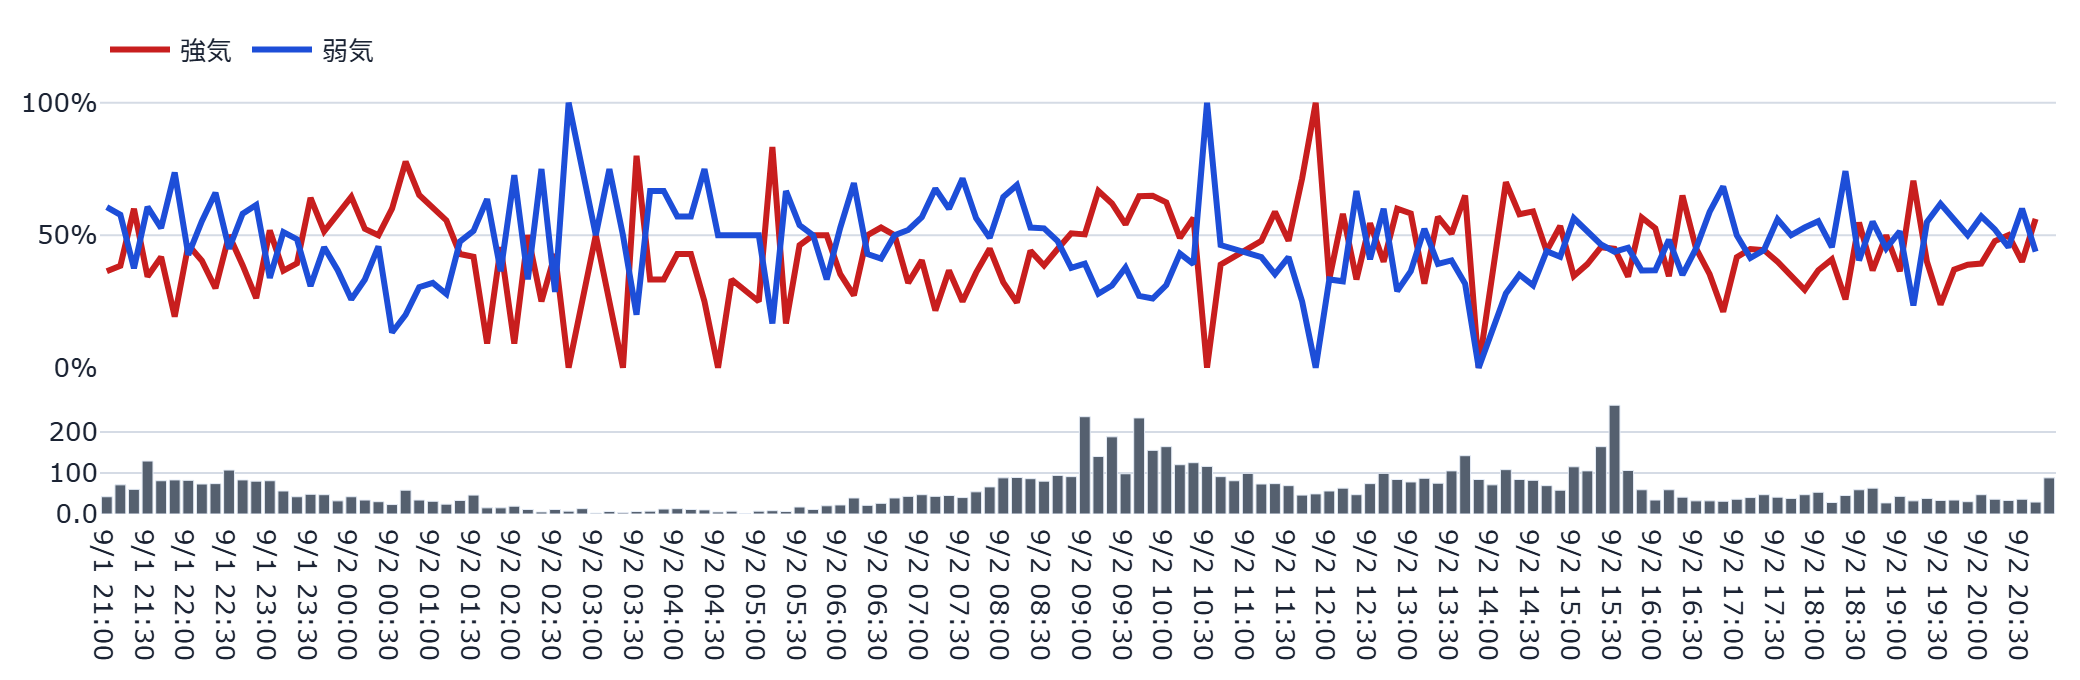
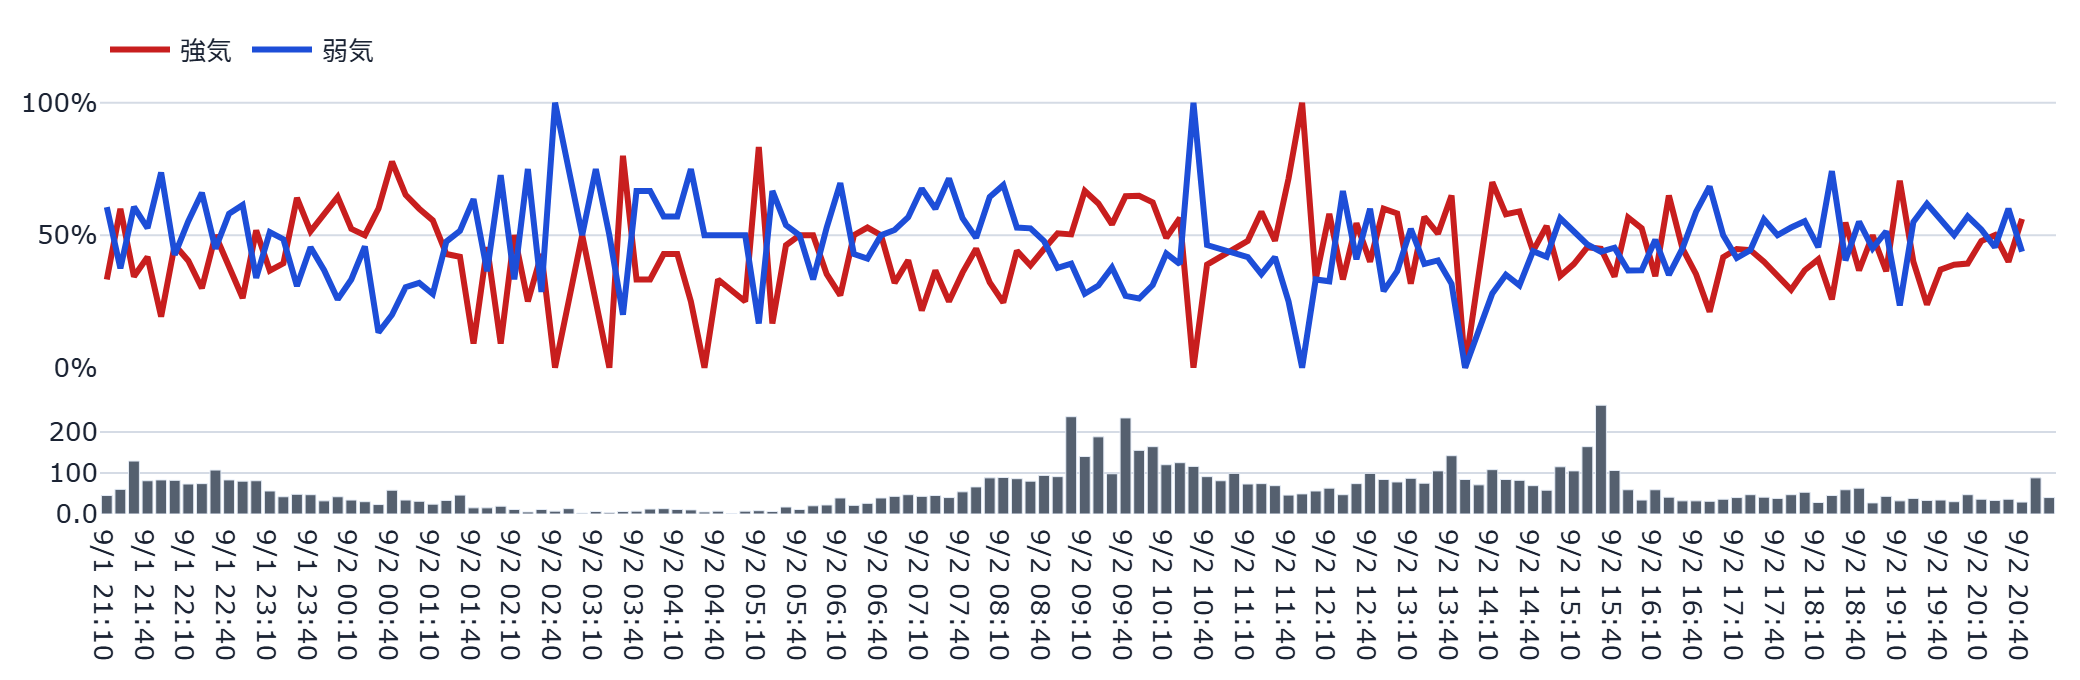
auto: refresh static dashboard (2026-09-02 21:20:00 JST)

diff --git a/docs/index.html b/docs/index.html
@@ -116,7 +116,7 @@
         <span class="price">51,000円</span>
         <span class="chg" style="color:#8B94A3">+0.00%</span>
       </div>
-      <p class="caption">更新時刻: 2026-09-02T21:05:14（データは1分間隔で自動生成され、このページも
+      <p class="caption">更新時刻: 2026-09-02T21:17:43（データは1分間隔で自動生成され、このページも
       60秒毎に自動再読み込みされます）</p>
       
       <p id='visit-count-badge' class='caption'>👀 累計閲覧数: 2,165</p>
@@ -136,7 +136,7 @@
           <h3>ボラ・レジーム帯</h3>
           <figure><img src='images/regime_band.png' alt='ボラ・レジーム帯' loading='lazy'></figure>
           <p class='caption'>現在レジーム: 較正中　(BVP=0.436)</p>
-          <div class='metric-row'><div class='metric-card'><div class='metric-label'>PTS（09/02 21:07）</div><div class='metric-value'>50,999円</div><div class='metric-delta' style='color:#8B94A3'>-0.00%</div></div></div><p class='caption'>PTS=東証取引時間外の私設取引システム／ADR=米国預託証券。翌営業日の値動きの参考情報です(それ自体が売買シグナルではありません)。</p>
+          <div class='metric-row'><div class='metric-card'><div class='metric-label'>PTS（09/02 21:15）</div><div class='metric-value'>51,000円</div><div class='metric-delta' style='color:#8B94A3'>+0.00%</div></div></div><p class='caption'>PTS=東証取引時間外の私設取引システム／ADR=米国預託証券。翌営業日の値動きの参考情報です(それ自体が売買シグナルではありません)。</p>
         </div>
       </div>
 
@@ -162,7 +162,7 @@
       <div class='info-box'>📌 前回の取引日(2026-09-01)からの状態変化: 「暴落煽り語彙」警戒→OK、「話題枯れ」OK→警戒</div>
       <div class="panel"><div class='signal-row'><div class='signal-name'>灼熱メーター(過熱)<div class='signal-desc'>掲示板全体の強気/弱気の偏りと投稿の勢いから算出した「過熱度」の合成指標。</div></div><div class='signal-meta'><div class='signal-note'>過熱スコア16.3 (閾値36)</div><div><span style='display:inline-block;border-radius:999px;padding:2px 10px;font-size:.82em;font-weight:600;color:#fff;background:#15803D;white-space:nowrap'>OK (現在値16.30 / 閾値&gt;36)</span></div><div class='signal-spark'><figure><img src='images/spark_signal_0.png' alt='灼熱メーター(過熱)の推移' loading='lazy'></figure></div></div></div>
 <div class='signal-row'><div class='signal-name'>そう思う大量票<div class='signal-desc'>Yahoo!掲示板の「そう思う」共感ボタンが1投稿に集中して大量に押されているか。</div></div><div class='signal-meta'><div class='signal-note'>そう思う最大62票 (95超=過熱)</div><div><span style='display:inline-block;border-radius:999px;padding:2px 10px;font-size:.82em;font-weight:600;color:#fff;background:#15803D;white-space:nowrap'>OK (現在値62 / 閾値&gt;=95)</span></div><div class='signal-spark'><figure><img src='images/spark_signal_1.png' alt='そう思う大量票の推移' loading='lazy'></figure></div></div></div>
-<div class='signal-row'><div class='signal-name'>イナゴ語彙(euphoria)<div class='signal-desc'>「爆上げ」「握力」等、熱狂・便乗を示す語彙が投稿にどれだけ含まれるか。</div></div><div class='signal-meta'><div class='signal-note'>euphoria指数2.0/100投稿</div><div><span style='display:inline-block;border-radius:999px;padding:2px 10px;font-size:.82em;font-weight:600;color:#fff;background:#15803D;white-space:nowrap'>OK (現在値2.00 / 閾値&gt;=5.5/100投稿)</span></div><div class='signal-spark'><figure><img src='images/spark_signal_2.png' alt='イナゴ語彙(euphoria)の推移' loading='lazy'></figure></div></div></div>
+<div class='signal-row'><div class='signal-name'>イナゴ語彙(euphoria)<div class='signal-desc'>「爆上げ」「握力」等、熱狂・便乗を示す語彙が投稿にどれだけ含まれるか。</div></div><div class='signal-meta'><div class='signal-note'>euphoria指数2.1/100投稿</div><div><span style='display:inline-block;border-radius:999px;padding:2px 10px;font-size:.82em;font-weight:600;color:#fff;background:#15803D;white-space:nowrap'>OK (現在値2.10 / 閾値&gt;=5.5/100投稿)</span></div><div class='signal-spark'><figure><img src='images/spark_signal_2.png' alt='イナゴ語彙(euphoria)の推移' loading='lazy'></figure></div></div></div>
 <div class='signal-row'><div class='signal-name'>ネームド集中<div class='signal-desc'>特定の常連投稿者(ハッシュ化ID)に投稿が偏っていないか(少数の声が目立ちすぎていないか)。</div></div><div class='signal-meta'><div class='signal-note'>上位5人シェア4%</div><div><span style='display:inline-block;border-radius:999px;padding:2px 10px;font-size:.82em;font-weight:600;color:#fff;background:#15803D;white-space:nowrap'>OK (現在値0.04 / 閾値&gt;=0.1)</span></div><div class='signal-spark'><figure><img src='images/spark_signal_3.png' alt='ネームド集中の推移' loading='lazy'></figure></div></div></div>
 <div class='signal-row'><div class='signal-name'>他銘柄混入率<div class='signal-desc'>本銘柄の掲示板で他の銘柄コードへの言及がどれだけ多いか(関心が他へ移りつつあるサイン)。</div></div><div class='signal-meta'><div class='signal-note'>他銘柄言及5% (関心離散のサイン)</div><div><span style='display:inline-block;border-radius:999px;padding:2px 10px;font-size:.82em;font-weight:600;color:#fff;background:#15803D;white-space:nowrap'>OK (現在値0.05 / 閾値&gt;=0.11)</span></div><div class='signal-spark'><figure><img src='images/spark_signal_4.png' alt='他銘柄混入率の推移' loading='lazy'></figure></div></div></div>
 <div class='signal-row'><div class='signal-name'>暴落煽り語彙<div class='signal-desc'>「暴落」「終わった」等、悲観・煽りを示す語彙が投稿にどれだけ含まれるか。</div></div><div class='signal-meta'><div class='signal-note'>煽り指数3.6/100投稿</div><div><span style='display:inline-block;border-radius:999px;padding:2px 10px;font-size:.82em;font-weight:600;color:#fff;background:#15803D;white-space:nowrap'>OK (現在値3.60 / 閾値&gt;=5.0/100投稿)</span></div><div class='signal-spark'><figure><img src='images/spark_signal_5.png' alt='暴落煽り語彙の推移' loading='lazy'></figure></div></div></div>
@@ -197,22 +197,22 @@
       
 
       <h2>🤖 AI考察</h2>
-      <div class='metric-row'><div class='metric-card'><div class='metric-label'>株価</div><div class='metric-value'>51,000円</div><div class='metric-delta'>+0円</div></div><div class='metric-card'><div class='metric-label'>強気比率</div><div class='metric-value'>49.6%</div><div class='metric-delta'>+0.0pt</div></div><div class='metric-card'><div class='metric-label'>弱気比率</div><div class='metric-value'>42.5%</div><div class='metric-delta'>+0.0pt</div></div></div><p class='caption'>前回集計(2026-09-02T20:58:16)との比較</p>
-      <div class='ai-box'>本日の取引終了時点におけるキオクシアホールディングス（285A）の掲示板センチメントを分析します。<br>
+      <div class='metric-row'><div class='metric-card'><div class='metric-label'>株価</div><div class='metric-value'>51,000円</div><div class='metric-delta'>+0円</div></div><div class='metric-card'><div class='metric-label'>強気比率</div><div class='metric-value'>49.6%</div><div class='metric-delta'>+0.0pt</div></div><div class='metric-card'><div class='metric-label'>弱気比率</div><div class='metric-value'>42.5%</div><div class='metric-delta'>+0.0pt</div></div></div><p class='caption'>前回集計(2026-09-02T21:05:14)との比較</p>
+      <div class='ai-box'>本日の取引終了時点におけるキオクシアホールディングス（285A）の掲示板センチメントを集計・分析した結果を報告します。<br>
 <br>
-本日の終値は51,000円となり、前日比で横ばいの動きとなりました。特筆すべき点は、価格が停滞している一方で、強気比率が49.6%まで上昇し、弱気比率（42.5%）を上回っている点です。直近の日次推移を見ると、8月下旬には弱気派が優勢な局面もありましたが、ここ数日の推移では強気・弱気の比率が拮抗する展開が続いています。本日のセンチメントは、価格の動きに対する「様子見」から、やや前向きな期待感へと微細にシフトしている可能性が示唆されます。<br>
+まず、本日の終値は51,000円となり、前日比で横ばいの推移となりました。この価格の停滞に対し、掲示板上では強気比率が49.6％、弱気比率が42.5％と拮抗しており、投資家の意見が二分されている状況が見て取れます。特筆すべきは、直近の日次推移との比較です。8月後半から続く価格の乱高下や強気・弱気比率の激しい入れ替わりを経て、現在は一定のレンジ内でセンチメントが均衡を保っている状態にあります。<br>
 <br>
-一方で、投稿量に関する指標には特有の動きが見られます。「話題枯れ」のシグナルが警戒水準となっており、投稿数のzスコアは負の値を示しています。これは、活発な議論や急激な反応が起こっているというよりは、一定の関心を持ちつつも、掲示板内での熱量が落ち着いている状態を反映していると考えられます。この「話題枯れ」と「過熱度スコア（16.3）」の低さが整合しており、現在は特定の勢力が市場を牽引するような爆発的な盛り上がりではなく、静かながらも均衡の取れたセンチメントが維持されている状況と言えます。<br>
+注目すべき点は「話題枯れ」の指標が警戒水準にあることです。前営業日と比較してこの傾向が強まっており、投稿数自体は減少傾向にあります。これは、価格が停滞していることへの反応として、掲示板上での活発な議論や新たな材料に対する反応が一時的に落ち着いている可能性を示唆しています。一方で、過熱度スコア（16.3）や暴落煽り語彙などの指標は平常範囲内（OK）に留まっており、投稿者の心理としては「熱狂」や「パニック」といった極端な感情には流れておらず、冷静かつ慎重な見守りの姿勢が支配的であると推測されます。<br>
 <br>
-ボラティリティ・レジームについては現在calibrating（較正中）となっており、現在の価格変動の激しさを確定的に判断するには慎重な見極めが必要です。しかし、過熱度や煽り語彙などの主要なシグナルが概ね「OK」の範囲内に収まっていることから、センチメントの強さは現時点では極めて穏やかであると推察されます。<br>
+ボラティリティのレジーム帯については現在calibrating（較正中）となっており、現在のセンチメントの安定感と照らし合わせると、市場の不確実性がまだ完全には整理されていない段階にあると言えます。また、PTS（私設取引システム）では50,999円と、東証終値からほぼ変動のない推移を見せています。<br>
 <br>
-なお、取引時間外のPTSでは50,799円（-0.39%）となっており、本日の終値からわずかに軟調な動きを見せています。<br>
+総じて、現在の掲示板は大きなトレンドや感情の爆発を伴う動きではなく、価格の停滞に伴って議論が沈静化している「静観」に近い状態にあると分析されます。<br>
 <br>
-以上、掲示板の集計センチメントデータに基づく分析であり、投資助言ではありません。</div><p class='caption'>生成時刻: 2026-09-02T21:05:14</p>
+※本内容は掲示板の集計センチメントデータに基づく分析であり、投資助言ではありません。</div><p class='caption'>生成時刻: 2026-09-02T21:17:43</p>
 
       <hr style="border:none;border-top:1px solid var(--border);margin:2rem 0 1rem">
       <p class="caption">⚠ 本情報は掲示板投稿を統計的に集計したものであり、投資助言ではありません。個別の投稿内容は含まれていません。研究・エンタメ用途です。</p>
-      <footer>生成: generate_static_dashboard.py（2026-09-02T21:18:06） /
+      <footer>生成: generate_static_dashboard.py（2026-09-02T21:19:52） /
       画像バックエンド: plotly+kaleido</footer>
     </div>
     <script>(function(){var url="https://script.google.com/macros/s/AKfycbwgSSGQ2n56ohmIYKlNDA1Xe3D8hd3GJbD0U90L4DGtXdb8pqrPokNMHJWjvN1__7bE/exec";var KEY='bbs_visit_counted';var already=sessionStorage.getItem(KEY);var action=already?'read':'hit';var ctrl=(typeof AbortController!=='undefined')?new AbortController():null;var timer=ctrl?setTimeout(function(){ctrl.abort();},5000):null;fetch(url+'?action='+action,{signal:ctrl?ctrl.signal:undefined}).then(function(r){if(timer)clearTimeout(timer);return r.json();}).then(function(data){if(!already)sessionStorage.setItem(KEY,'1');if(data&&typeof data.count==='number'){var el=document.getElementById('visit-count-badge');if(el){el.textContent='\u{1F440} \u7d2f\u8a08\u95b2\u89a7\u6570: '+data.count.toLocaleString();el.style.display='';}}}).catch(function(e){if(timer)clearTimeout(timer);console.warn('visit counter fetch failed (fail-soft):',e);});})();</script><script>(function(){var url="https://script.google.com/macros/s/AKfycbwgSSGQ2n56ohmIYKlNDA1Xe3D8hd3GJbD0U90L4DGtXdb8pqrPokNMHJWjvN1__7bE/exec";var KEY='bbs_liked';var btn=document.getElementById('like-button');var label=document.getElementById('like-count-label');if(!btn||!label)return;function renderLiked(count){btn.disabled=true;btn.style.cursor='default';btn.style.opacity='0.6';btn.textContent='\u2705';label.textContent="\u3044\u3044\u306d\u3057\u307e\u3057\u305f\uff01"+(typeof count==='number'?"\uff08\u7d2f\u8a08 "+count.toLocaleString()+" \u3044\u3044\u306d\uff09":'');}if(localStorage.getItem(KEY)){renderLiked(null);}btn.addEventListener('click',function(){if(localStorage.getItem(KEY))return;btn.disabled=true;var ctrl=(typeof AbortController!=='undefined')?new AbortController():null;var timer=ctrl?setTimeout(function(){ctrl.abort();},5000):null;fetch(url+'?action=like_hit',{signal:ctrl?ctrl.signal:undefined}).then(function(r){if(timer)clearTimeout(timer);return r.json();}).then(function(data){localStorage.setItem(KEY,'1');renderLiked(data&&typeof data.count==='number'?data.count:null);}).catch(function(e){if(timer)clearTimeout(timer);btn.disabled=false;console.warn('like button fetch failed (fail-soft):',e);});});})();</script></body></html>
